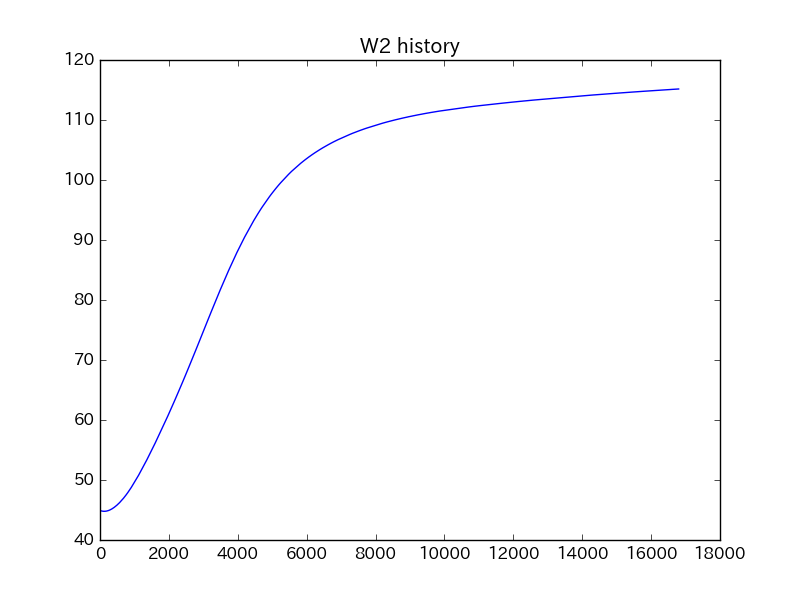
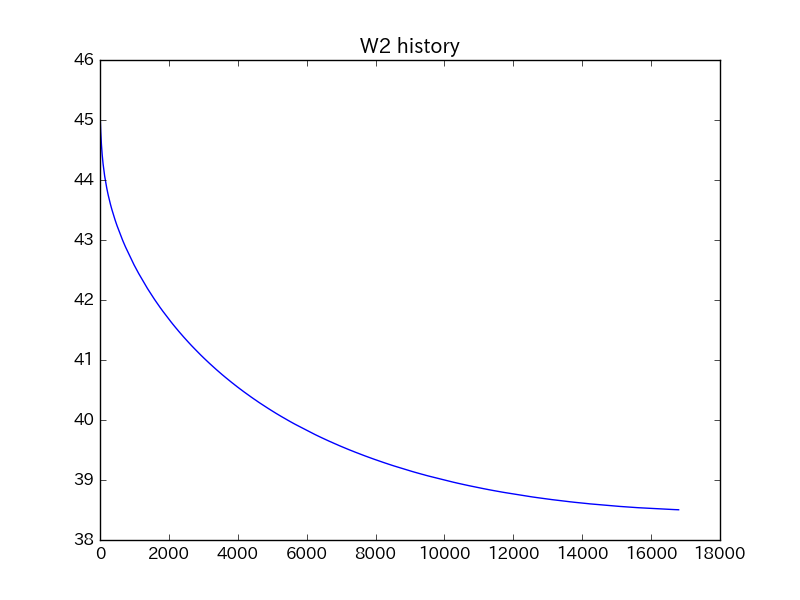
デルタの計算方法を修正

diff --git a/n-ken/mps20160723.py b/n-ken/mps20160723.py
@@ -135,8 +135,8 @@ if __name__ == '__main__':
 
                 # 誤差逆伝播
                 # delta2 = d_se(t, y2) * d_relu(y2)
+                delta2 = d_se(t, y2)# * d_sigmoid(y2)
                 # delta1 = layer2._W.T @ delta2 * d_relu(y1)
-                delta2 = d_se(t, y2) * d_sigmoid(y2)
                 delta1 = layer2._W.T @ delta2 * d_sigmoid(y1)
 
                 # 各イテレーションの最初のデータを格納する
